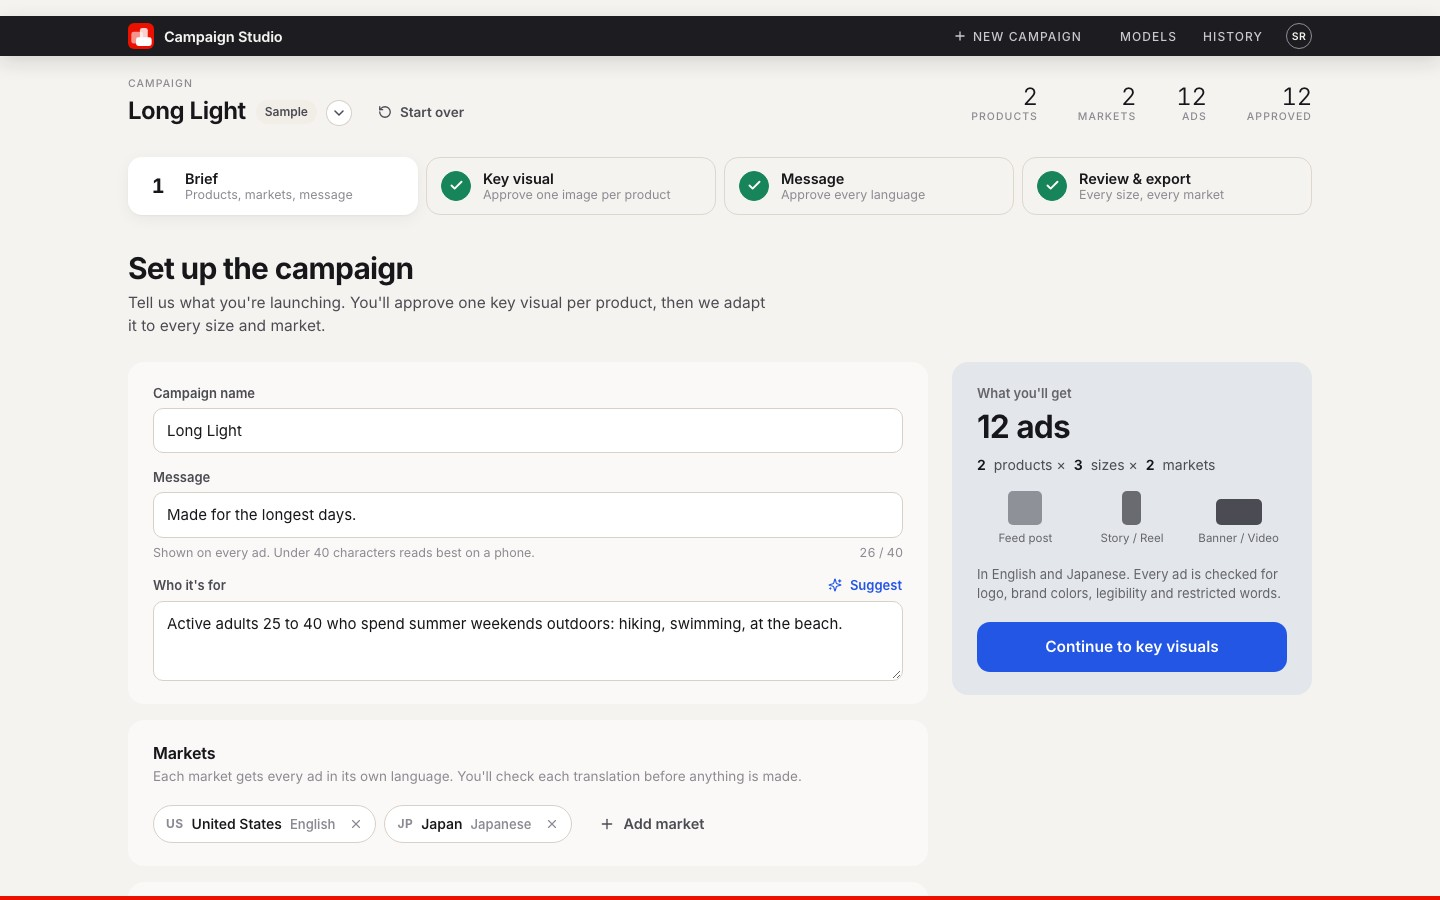
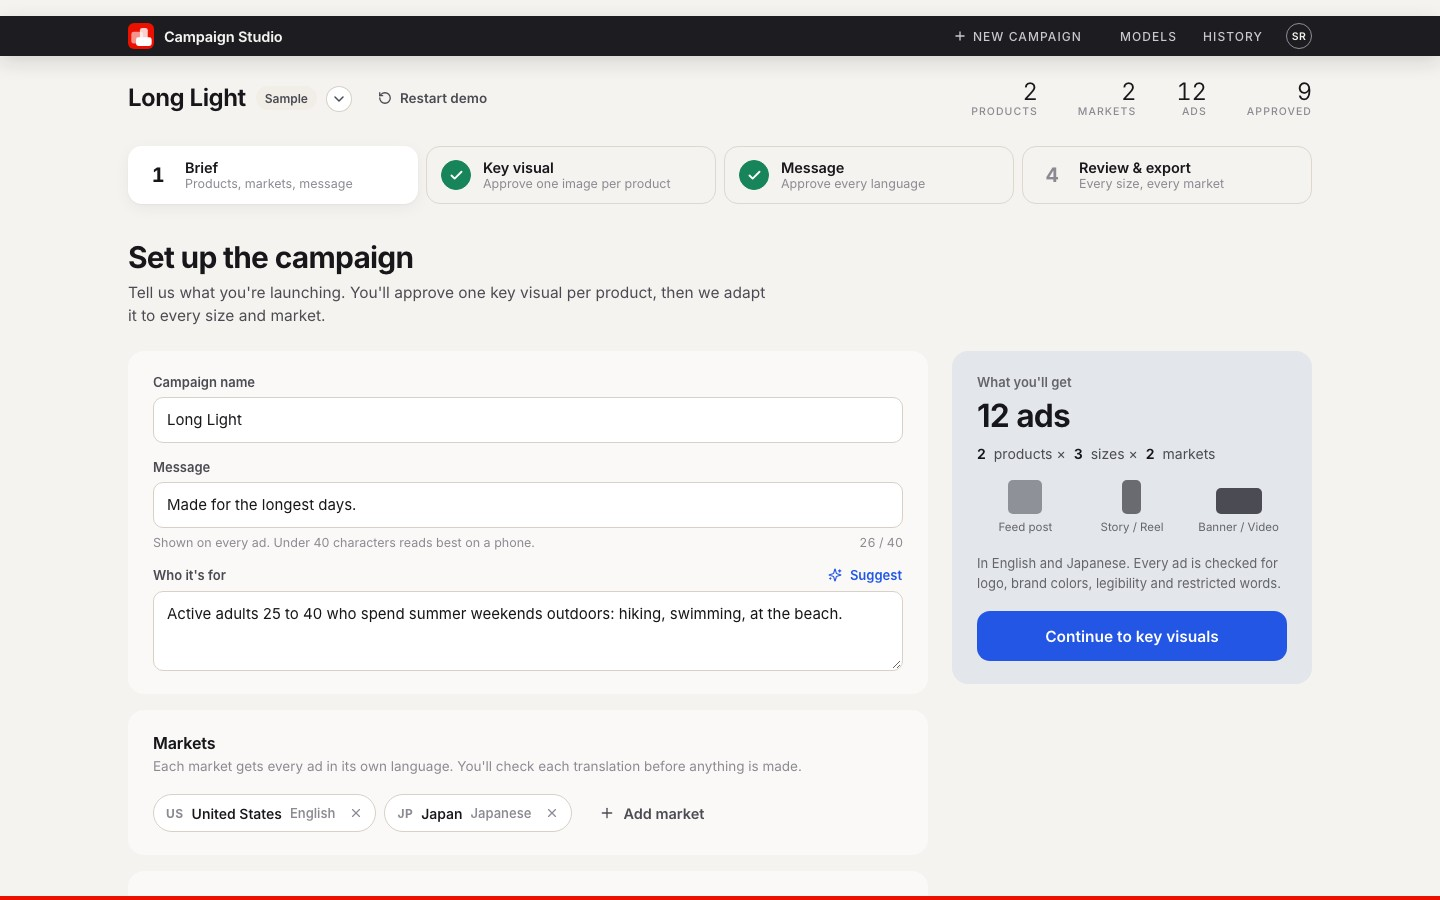
Update the demo script, README and screenshots for today's changes
- Demo script: opens with the app running, adds Show folder, shortens
  Models to one sentence, drops the install beat; about 2:45.
- README: python3 start.py first with the launchers as the no-terminal
  option; New campaign and Restart demo; CI described accurately
  (Windows and Linux; Mac by hand while the repo is private); the
  Message step rewritten for the current screen; Show folder; a note
  on PNG file size.
- Screenshots retaken with the new header; sample restarted afterwards.

diff --git a/README.md b/README.md
@@ -23,17 +23,23 @@ You need **Python 3.9 or newer**. Macs already have it. On Windows, install it f
 
 On GitHub, click **Code → Download ZIP** and unzip it. (Or `git clone` it.)
 
-**2. Double-click Start Campaign Studio**
+**2. Start it**
 
-In the unzipped folder, double-click **Start Campaign Studio**. On a Mac it's the `.command` file; on Windows, the `.bat` file. A window opens, the first run takes about 30 seconds while it sets itself up, and your browser opens on a ready-made sample campaign. After that it starts instantly.
+In the unzipped folder, run:
+
+```bash
+python3 start.py
+```
+
+On Windows, `py start.py`. The first run takes about 30 seconds while it sets itself up, then your browser opens on a ready-made sample campaign. After that it starts instantly.
 
 Keep that window open while you use the app; closing it stops the app. Your work is saved, and you can pick up where you left off.
 
-> **The first time, your computer will warn you**, because the launcher isn't from an App Store or a signed installer. You only do this once:
+**No terminal?** Double-click **Start Campaign Studio** in the same folder instead: the `.command` file on a Mac, the `.bat` file on Windows. It does exactly the same thing.
+
+> **The first time, your computer will warn you about the launcher**, because it isn't from an App Store or a signed installer. You only do this once:
 > - **Mac:** it says Apple could not verify the file. Click **Done**, open **System Settings → Privacy & Security**, scroll down, and click **Open Anyway** next to "Start Campaign Studio". (If you used `git clone`, there's no warning.)
 > - **Windows:** if it says **Windows protected your PC**, click **More info**, then **Run anyway**.
-
-Prefer a terminal? In the folder, run `python3 start.py` (on Windows, `py start.py`). It does exactly the same thing.
 
 **3. Sign in**
 
@@ -56,11 +62,11 @@ In production, sign-in comes from the client's single sign-on (Adobe, Okta or Mi
 
 **4. Try it**
 
-Click **Create key visuals** and follow the steps. With no API key it runs in **Demo mode**: images are drawn locally, instantly and for free, so you can try the whole flow. When you want real images, click **Models** at the top, paste an OpenAI API key, and you're done. The key is checked and saved on your computer only.
+Click **Create key visuals** and follow the steps. To try your own brief, click **New campaign** at the top: start a blank one, or duplicate the current one and change it. **Restart demo** puts the sample back to how it shipped. With no API key it runs in **Demo mode**: images are drawn locally, instantly and for free, so you can try the whole flow. When you want real images, click **Models** at the top, paste an OpenAI API key, and you're done. The key is checked and saved on your computer only.
 
 > **If something goes wrong**, the window says what to do in plain words. The most common one: the Mac asks to install "command line developer tools" the first time Python is used. Say yes, then start it again.
 
-**Windows, Mac or Linux.** A GitHub workflow ([`fresh-install.yml`](.github/workflows/fresh-install.yml)) installs and runs Campaign Studio from a fresh copy on all three, on every push, with no API key. It walks the whole flow, checks the download, and saves a screenshot of the app as it renders on each machine.
+**Windows, Mac or Linux.** On every push, a GitHub workflow ([`fresh-install.yml`](.github/workflows/fresh-install.yml)) installs and runs Campaign Studio from a fresh copy on Windows (Python 3.9 and 3.12) and Linux, with no API key, including the double-click launcher. It walks the whole flow, checks the download, and saves a screenshot of the app as it renders on each machine. GitHub's macOS machines aren't available to this private repository, so the Mac is tested by hand; the macOS job switches on if the repository is made public. [`tools/screenshots.py`](tools/screenshots.py) retakes the screenshots below from the running app.
 
 **Want it in its own window?** In Chrome or Edge, click the install icon in the address bar (or **⋮ → Install Campaign Studio**). You get an app window and a dock or taskbar icon. It still needs the Start Campaign Studio window running, the same as the browser tab.
 
@@ -72,8 +78,8 @@ Click **Create key visuals** and follow the steps. With no API key it runs in **
 |---|---|
 | ![Brief](docs/screens/1-brief.jpg) | **Brief.** Campaign name, message, audience, markets and products, all on one page that saves as you type. The right-hand panel shows what you'll get (here, 2 products × 3 sizes × 2 markets = 12 ads), and the button stays locked until the brief is complete. Restricted words are flagged as you type. |
 | ![Key visual](docs/screens/2-key-visual.jpg) | **Key visual.** One image per product. Fit the **product box** around the product: every size is cropped around it, and the message is kept off it. Outlines show exactly where the Story and Banner crops land, and the previews on the right update as you move the box. Approve, or try another. |
-| ![Message](docs/screens/3-message.jpg) | **Message.** The source line and each translation, side by side with a live ad preview. The translation is adapted for the market, not swapped word for word, and **What it says** shows its meaning in English so a reviewer who doesn't read Japanese can still sign off. Editing re-renders instantly and costs nothing: the words sit on top of the image, not inside it. |
-| ![Review](docs/screens/4-review.jpg) | **Review and export.** Every ad, grouped by product and market. Problems are boxed and numbered on the ad itself. Click any ad for a close-up with the full check list and a one-click route to fix the cause. Approve one at a time (keys: **A**, **R**, **← →**) or **Approve all that pass**, then download a ZIP of the approved ads. |
+| ![Message](docs/screens/3-message.jpg) | **Message.** One card per language, with every product's ad beside it. The translation is adapted for the market, not swapped word for word. **In English** shows what it says, and **Changed the meaning** flags a line whose meaning has shifted, so a reviewer who doesn't read Japanese can still sign off, or **Ask for a change**. The words sit on top of the image, so editing re-renders instantly and costs nothing. Every language puts the message card in the same place on each ad, so the markets stay consistent. |
+| ![Review](docs/screens/4-review.jpg) | **Review and export.** Every ad, grouped by product and market. Problems are boxed and numbered on the ad itself. Click any ad for a close-up with the full check list and a one-click route to fix the cause. Approve one at a time (keys: **A**, **R**, **← →**) or **Approve all that pass**, then download a ZIP of the approved ads, or **Show folder** to open them on disk. |
 
 ---
 
@@ -216,10 +222,11 @@ Both are offline and need no key, so they run on every push. This proves the ada
 - **Restricted words are a simple list per language.** It's a stand-in for a real legal-review service, not a replacement.
 - **Fonts:** Inter (Latin) and Noto Sans JP (Japanese) are bundled under the SIL Open Font Licence, so output is identical on any machine. Other scripts are added per market (see *Launching in a new market*).
 - **Branding:** Adobe red is the app's single accent, used in the interface chrome only, never on or around the ads. No Adobe logos are used, so nothing implies Adobe made or endorses this proof of concept.
+- **Ads are saved as lossless PNG,** about 1.6 to 2.4 MB each at full size. A JPEG at quality 85 is about 200 KB, with no visible difference at phone size. It's a small change in the save step; it isn't made here because the ad platforms compress what's uploaded anyway.
 - **Demo images are illustrations,** drawn locally to make the flow free to try. The report labels them `mock`.
 - **The sample's "client-supplied" product photo** (`samples/long-light/assets/daylight-mist.png`) was itself generated with OpenAI for this demo. Solvane is a fictional brand.
 - **Performance insights** (CTR and conversions by variant, goal 5 in the brief) aren't covered. `report.json` gives each ad a stable identity, which is what a later analytics join would use.
-- **Tested on:** macOS by hand with Python 3.9 (the version macOS ships) and 3.12, from a clean copy with and without an API key. Windows, Linux and macOS automatically through the fresh-install workflow.
+- **Tested on:** macOS by hand with Python 3.9 (the version macOS ships) and 3.12, from a clean copy with and without an API key. Windows and Linux automatically through the fresh-install workflow.
 
 ---
 
@@ -245,7 +252,7 @@ tools/team.py         add, list or remove the people who can sign in
 tools/fake_firefly.py a stand-in for Adobe's servers, for testing Firefly with no account
 tools/test_firefly.py the Firefly adapter's tests (offline)
 tools/                smoke_test.py (fresh-install test used by CI), screenshots.py (retakes the README screenshots), sample-asset scripts, a contact-sheet helper
-.github/workflows/    fresh-install.yml: the Windows / macOS / Linux test
+.github/workflows/    fresh-install.yml: the fresh-install test (Windows and Linux; macOS once public)
 ```
 
 **Changing the interface** needs Node 18 or newer:

diff --git a/docs/DEMO.md b/docs/DEMO.md
@@ -1,21 +1,19 @@
 # Demo video script (2–3 minutes)
 
-The video has one job: show a reviewer they can run this themselves, then show what it does. Record at 1440×900, the browser full-screen, no cuts during setup.
+The video has one job: show the required pipeline working, in the assignment's order, with a person approving the decisions that matter. Record at 1440×900, the browser full-screen. Target: about 2:45.
 
-**Before recording:** in the app, click **Restart demo** beside the campaign name. Have an OpenAI key ready in the app (**Models** shows **OpenAI**). Download a fresh **Code → Download ZIP** from GitHub and unzip it, so the Mac's first-time warning appears on camera: it's the one step a reviewer will get stuck on. Have the folder open in Finder, and close any Campaign Studio window that's already running.
+**Before recording:** start the app (`python3 start.py`) and sign in. Click **Restart demo** beside the campaign name. Open **Models** and check **OpenAI** is selected for images and translation. Have the README open on GitHub in another tab.
 
 | Time | Screen | Say |
 |---|---|---|
 | 0:00 | README on GitHub | "This is Campaign Studio. One brief in, every social ad out, in every size and market, with a person approving the decisions that matter." |
-| 0:12 | Finder | Double-click **Start Campaign Studio**. The Mac warns it can't verify the file: click **Done**, then **System Settings → Privacy & Security → Open Anyway**. "The first time, the Mac asks you to OK it, once, because it isn't from the App Store. Then that's the whole setup: download, double-click. It installs what it needs and opens the browser. The window that opens is the app running on this computer." |
-| 0:22 | Brief | "It opens on a sample: two products, two markets, one message. One product has a photo, so we'll reuse it. The other doesn't, so we'll generate it. The panel on the right says what we'll get: twelve ads." |
-| 0:40 | Click **Create key visuals** | "Nothing gets resized or translated yet. First, one key visual per product, for a person to approve." |
-| 0:50 | Key visual: photo | "This is the client's photo. I fit the box around the product; every size is cropped around it. The outlines show where the Story and Banner crops land, and the previews update live." Approve. |
-| 1:10 | Key visual: generated | "This one was generated by OpenAI from the brief in about ten seconds. If it's wrong, **Try another** costs one image, not twelve ads." Fit the box. Approve. |
-| 1:30 | Message | "The line is adapted for Japan, not just translated, and here's what it means in English, so I can sign off without reading Japanese." Type a restricted word to show the flag, then undo. "Legal's restricted words are caught before anyone approves." Approve both. |
-| 1:55 | Review | "Twelve ads. Every one has been checked for legibility, logo, brand colors, restricted words, and whether the product is cropped or covered. Problems are marked on the ad itself." Open the flagged one. "It says what's wrong and how to fix it." |
-| 2:20 | Approve all that pass, then Download | "Approve, download. Everything's also on disk, organised by product and size, with a report of who approved what and when." |
-| 2:35 | Models panel | "Images and translation are chosen separately. It runs on OpenAI or free demo images today. Here's the Firefly adapter. It's one setting away: paste the client's own credentials and nothing your team sees changes. It's written to Adobe's documentation and proven against a stand-in server; I haven't had a live account to run it on." |
-| 2:55 | Install icon in Chrome's address bar | Click it, then **Install**. "And if you'd rather it lived in its own window, Chrome installs it as an app, with a dock icon. It's still running on this computer." |
+| 0:12 | Brief | "It's running on this computer: one command, or a double-click, sets it up. It opens on a sample: two products, two markets, one message. One product has a photo, so we'll reuse it. The other doesn't, so we'll generate it. The panel on the right says what we'll get: twelve ads." |
+| 0:37 | Click **Create key visuals** | "Nothing gets resized or translated yet. First, one key visual per product, for a person to approve." |
+| 0:47 | Key visual: photo | "This is the client's photo. I fit the box around the product; every size is cropped around it. The outlines show where the Story and Banner crops land, and the previews update live." Approve. |
+| 1:07 | Key visual: generated | "This one was generated by OpenAI from the brief in about ten seconds. If it's wrong, **Try another** costs one image, not twelve ads." Fit the box. Approve. |
+| 1:27 | Message | "The line is adapted for Japan, not just translated, and here's what it means in English, so I can sign off without reading Japanese." Type a restricted word to show the flag, then undo. "Legal's restricted words are caught before anyone approves." Approve both. |
+| 1:52 | Review | "Twelve ads. Every one has been checked for legibility, logo, brand colors, restricted words, and whether the product is cropped or covered. Problems are marked on the ad itself." Open the flagged one. "It says what's wrong and how to fix it." |
+| 2:17 | **Approve all that pass**, **Download**, then **Show folder** | "Approve, download. And here's the folder: by product, then by size, with a report of who approved what and when." |
+| 2:35 | Models panel | "Images and translation are chosen separately: free demo images, OpenAI, or Adobe Firefly with the client's own credentials. The Firefly adapter is written to Adobe's documentation and tested against a stand-in server, not yet on a live account." |
 
 **If anything fails on camera:** the app explains the error in plain words. That's worth keeping in the take.

diff --git a/WALKTHROUGH-2026-11-19.md b/WALKTHROUGH-2026-11-19.md
@@ -42,19 +42,20 @@ From the late-night handoff:
 - [x] `CAMPAIGN` label above vs number labels below: dropped the CAMPAIGN label (C)
 - [x] Restart demo: sample only, small modal (Cancel / Restart), lands on the Brief
 - [x] New campaign: dropdown with Blank campaign / Duplicate, then one popup (Cancel / Create); no name asked. Duplicate copies brief and photos only
+- [x] README screenshots: retaken 19 Nov, sample restarted after
 - [ ] Tag `v3` (only when Greg says)
 
 From the walkthrough:
-- [ ] `docs/DEMO.md`: open with the app already running (drop the Finder and Gatekeeper beat)
-- [ ] `docs/DEMO.md`: drop the install-as-an-app beat at 2:55
-- [ ] README: `python3 start.py` first, launchers as the no-terminal option
-- [ ] README: one line on CI and the screenshot tool, accurate about which systems run in CI
+- [x] `docs/DEMO.md`: open with the app already running (drop the Finder and Gatekeeper beat)
+- [x] `docs/DEMO.md`: drop the install-as-an-app beat at 2:55
+- [x] README: `python3 start.py` first, launchers as the no-terminal option
+- [x] README: one line on CI and the screenshot tool, accurate about which systems run in CI
 - [x] Models panel: a line under each group, icons and dark headings, no subtitle
-- [ ] `docs/DEMO.md`: Models beat, one sentence (~10s)
-- [ ] README: one line that the app takes any brief (New campaign, or `cli.py` with a `brief.json`)
+- [x] `docs/DEMO.md`: Models beat, one sentence (~10s)
+- [x] README: one line that the app takes any brief (New campaign, or `cli.py` with a `brief.json`)
 - [x] Test Show folder on Mac: works, Finder opens `outputs/<campaign>/`
-- [ ] `docs/DEMO.md`: click Show folder in the 2:20 beat
-- [ ] README: one sentence on the shared card position across languages
+- [x] `docs/DEMO.md`: click Show folder in the 2:20 beat
+- [x] README: one sentence on the shared card position across languages
 
 From the look-only pass (each needs Greg's call; A/B before any visual change):
 - [x] History: times only ("7:15 PM"), no day, while the lightbox says "14 h ago"; yesterday's entries read as today's
@@ -62,8 +63,8 @@ From the look-only pass (each needs Greg's call; A/B before any visual change):
 - [x] Models: "For production" badge now neutral grey
 - [x] Models: explainer done (line per group)
 - [x] Sign-in: subtitle leaves "time." alone on its own line
-- [ ] README step descriptions are stale after the redesign: Message still says "What it says" and "side by side with a live ad preview"
-- [ ] README: one line on file size. Ads are lossless PNG, 1.6 to 2.4 MB each; JPEG at quality 85 is about 200 KB (8 to 10× smaller). Not building it, just saying it was considered
+- [x] README step descriptions are stale after the redesign: Message still says "What it says" and "side by side with a live ad preview"
+- [x] README: one line on file size. Ads are lossless PNG, 1.6 to 2.4 MB each; JPEG at quality 85 is about 200 KB (8 to 10× smaller). Not building it, just saying it was considered
 
 Checked, no change needed:
 - Sign-in page, Models connect forms (OpenAI and Firefly), History layout, lightbox checks list
